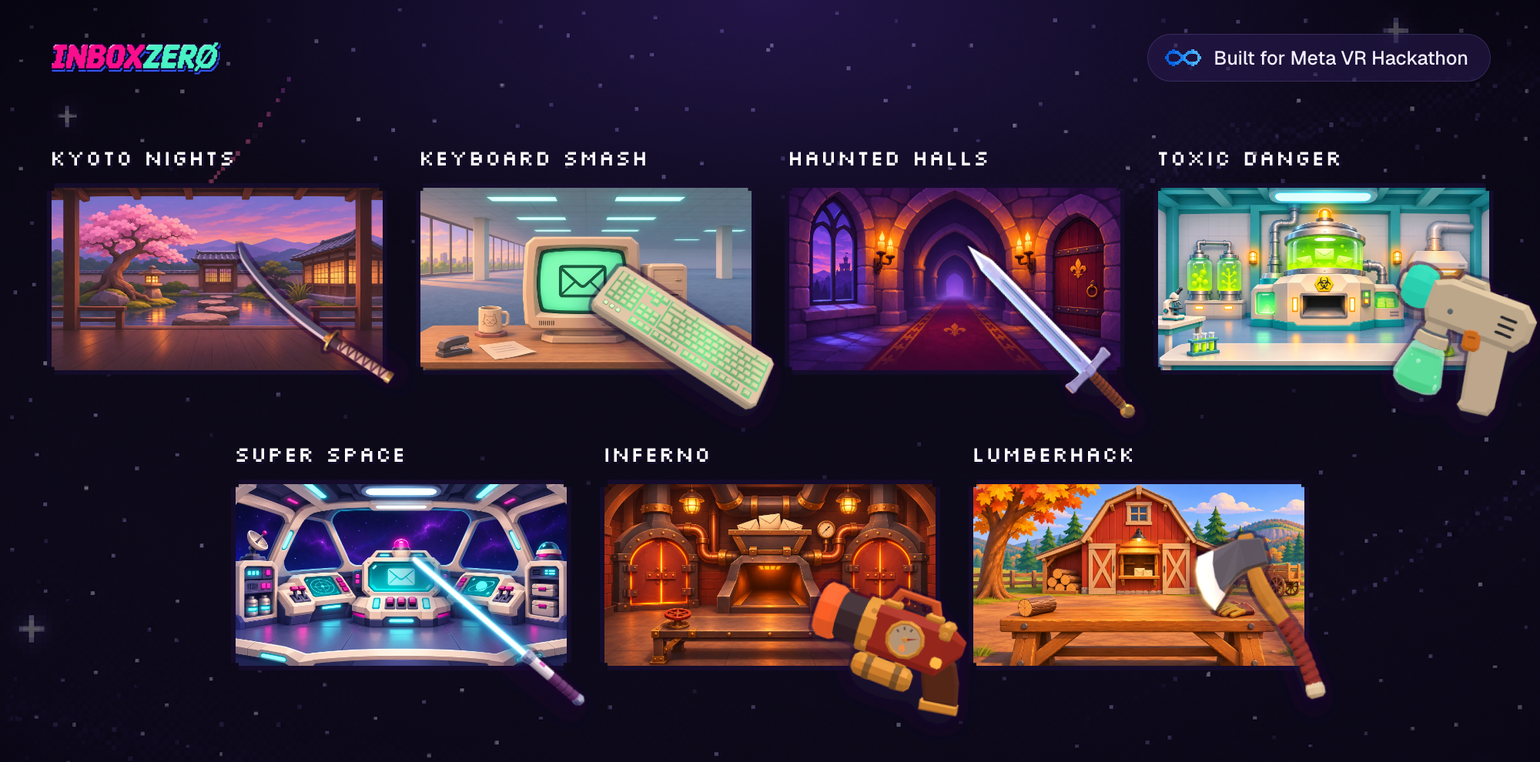
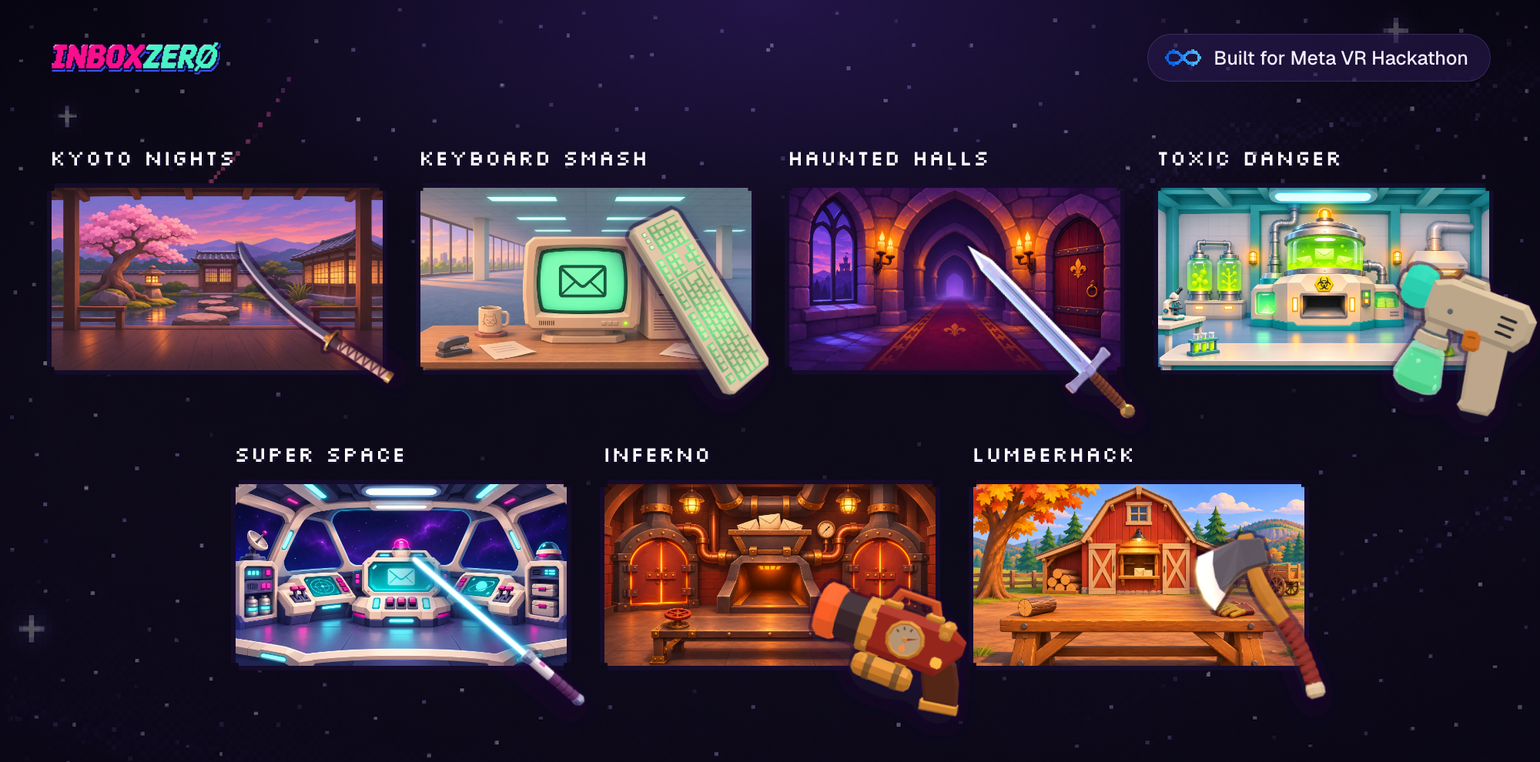
almost done!

Changed region(s): [[0.372, 0.2727, 0.496, 0.5455]]

diff --git a/vr3/app/_site/Win.tsx b/vr3/app/_site/Win.tsx
@@ -1,0 +1,165 @@
+'use client';
+
+import { useEffect, useRef, useState } from 'react';
+import { ANTHEM_LYRICS } from '../../play/src/levels/lyrics';
+
+/**
+ * A level's win, over the footer's painting as its easter egg (FootEgg.tsx; first built in the hero, 2026-11-15: "the nav, hero text, level selector, etc would fade away, the background would
+ * add more particles for that level, and it would play the end song for each level and show the lyrics like it does on the
+ * game, a simple way for people to see / hear that end part"; "build the kyoto first to see if it feels fun"; then
+ * "move this as an easter egg for the footer").
+ *
+ * The song is the game's own (/play/audio/<level>/anthem.m4a) and so are its words and their times (play/src/levels/lyrics.ts).
+ * As in the game's end (play/src/endlyrics.ts): each word comes in as it is sung, in the pixel letters, the line it is on in
+ * the middle. Then, as in the game, it is cut (2026-11-15: "make it center, and not so big text, and maybe try and smash them
+ * with the weapon"): when the next line starts, the level's weapon sweeps through the old one and its two halves fall away;
+ * the last line goes the same way, and the level's logo comes in. Over the painting, the
+ * level's air: more of it than the scenes below, beating with the song (its -pulse.json, as the game's music pulses), and a
+ * puff of it from each word as it lands. It ends by itself a little after the song, or on STOP / Esc.
+ */
+export interface WinAir { colours: string[]; count: number; size: [number, number]; fall: number; drift: number; sway: number }
+/** The levels with a win to show, and their air (Kyoto's petals: play/src/showcase.ts SHOWS.kyoto, more and bigger). */
+export const WINS: Record<string, { lyrics: string; audio: string; air: WinAir }> = {
+  kyoto: { lyrics: 'kyoto', audio: 'kyoto', air: { colours: ['#ffc4d8', '#ff9fc0', '#fff0f5', '#ff8fb8'], count: 150, size: [6, 14], fall: 38, drift: -26, sway: 22 } },
+};
+
+const CUT_LAST = 0.9;        // s after the last word, the weapon cuts the last line
+const LOGO_AFTER = 1.35;     // s after the last word, the logo comes in (a little after the cut)
+const CUTTING = 1.0;         // s a cut line takes to fall away
+/** Kyoto's katana in pixels, its tip to the right: h grip, p its pink wrap, g the guard, b blade, e the edge, s its shade. */
+const KATANA = [
+  '..........gg............................',
+  'hphphphphpggbbbbbbbbbbbbbbbbbbbbbbbbbbb.',
+  'phphphphphggeeeeeeeeeeeeeeeeeeeeeeeeeeee',
+  'hphphphphpggssssssssssssssssssssssssss..',
+  '..........gg............................',
+];
+const INK: Record<string, string> = { h: '#2a1a2e', p: '#ff8fb8', g: '#e0ac48', b: '#dfe6f2', e: '#ffffff', s: '#9aa6bb' };
+function Katana() {
+  return (
+    <svg className="win-katana" viewBox={`0 0 ${KATANA[0].length} ${KATANA.length}`} shapeRendering="crispEdges" aria-hidden>
+      {KATANA.flatMap((row, y) => [...row].map((c, x) => (INK[c] ? <rect key={`${x}-${y}`} x={x} y={y} width={1.02} height={1.02} fill={INK[c]} /> : null)))}
+    </svg>
+  );
+}
+const HOLD = 2.4;            // s the logo stays once the song is over, before the hero comes back
+
+interface Petal { x: number; y: number; s: number; vx: number; vy: number; phase: number; spin: number; colour: string; life: number }
+
+export function Win({ level, onEnd }: { level: string; onEnd(): void }) {
+  const win = WINS[level];
+  const lines = ANTHEM_LYRICS[win.lyrics] ?? [];
+  const lastWord = Math.max(...lines.flat().map(([t]) => t));
+  const canvas = useRef<HTMLCanvasElement>(null);
+  const [t, setT] = useState(-1);
+  const [over, setOver] = useState(false);
+  const clock = useRef({ t: -1, pulse: [] as number[], step: 0.05, words: 0, cuts: 0 });
+
+  // the song, its beat, and the clock everything follows
+  useEffect(() => {
+    const audio = new Audio(`/play/audio/${win.audio}/anthem.m4a`);
+    let frame = 0, ended = 0, gone = false;
+    void fetch(`/play/audio/${win.audio}/anthem-pulse.json`).then(r => (r.ok ? r.json() : null)).then((d: { pulse?: number[]; step?: number } | null) => {
+      if (d?.pulse) { clock.current.pulse = d.pulse; clock.current.step = d.step ?? 0.05; }
+    }).catch(() => undefined);
+    const tick = () => {
+      frame = requestAnimationFrame(tick);
+      clock.current.t = audio.currentTime;
+      setT(audio.currentTime);
+    };
+    audio.addEventListener('ended', () => { setOver(true); ended = window.setTimeout(() => { if (!gone) onEnd(); }, HOLD * 1000); });
+    audio.play().catch(() => { if (!gone) onEnd(); });      // (not when this was taken down first: that pause also fails the play)
+    frame = requestAnimationFrame(tick);
+    const key = (event: KeyboardEvent) => { if (event.key === 'Escape') onEnd(); };
+    addEventListener('keydown', key);
+    return () => { gone = true; cancelAnimationFrame(frame); clearTimeout(ended); audio.pause(); removeEventListener('keydown', key); };
+  }, []);
+
+  // the air: petals drifting down and across, more on the beat, a puff from each word
+  useEffect(() => {
+    const el = canvas.current, g = el?.getContext('2d');
+    if (!el || !g) return;
+    const still = matchMedia('(prefers-reduced-motion: reduce)').matches;
+    const { air } = win;
+    let w = 0, h = 0, frame = 0, last = 0;
+    const petals: Petal[] = [];
+    const make = (x: number, y: number, burst = false): Petal => {
+      const angle = Math.random() * Math.PI * 2, kick = burst ? 60 + Math.random() * 160 : 0;
+      return {
+        x, y, s: air.size[0] + Math.random() * (air.size[1] - air.size[0]),
+        vx: air.drift * (0.6 + Math.random() * 0.8) + Math.cos(angle) * kick, vy: air.fall * (0.6 + Math.random() * 0.8) + Math.sin(angle) * kick,
+        phase: Math.random() * Math.PI * 2, spin: (Math.random() - 0.5) * 3, colour: air.colours[(Math.random() * air.colours.length) | 0], life: burst ? 2.6 : Infinity,
+      };
+    };
+    const size = () => {
+      const box = el.getBoundingClientRect(), ratio = Math.min(devicePixelRatio, 2);
+      w = box.width; h = box.height; el.width = Math.round(w * ratio); el.height = Math.round(h * ratio); g.setTransform(ratio, 0, 0, ratio, 0, 0);
+    };
+    size();
+    for (let i = 0; i < air.count; i++) petals.push(make(Math.random() * w * 1.2, Math.random() * h));
+    const resized = new ResizeObserver(size); resized.observe(el);
+
+    const draw = (now: number) => {
+      frame = requestAnimationFrame(draw);
+      const dt = last ? Math.min(0.05, (now - last) / 1000) : 0; last = now;
+      const c = clock.current, beat = c.pulse.length && c.t >= 0 ? c.pulse[Math.min(c.pulse.length - 1, Math.floor(c.t / c.step))] ?? 0 : 0;
+      // a puff from the middle for each word that has landed since the last frame
+      const landed = lines.flat().filter(([at]) => at <= c.t).length;
+      for (; c.words < landed; c.words++) for (let i = 0; i < 14; i++) petals.push(make(w / 2 + (Math.random() - 0.5) * w * 0.3, h * 0.48 + (Math.random() - 0.5) * 40, true));
+      // and a bigger one along the line, each time the weapon cuts one
+      const cuts = lines.filter((line, i) => i > 0 && line[0][0] <= c.t).length + (c.t >= lastWord + CUT_LAST ? 1 : 0);
+      for (; c.cuts < cuts; c.cuts++) for (let i = 0; i < 40; i++) petals.push(make(w * (0.2 + Math.random() * 0.6), h * 0.5 + (Math.random() - 0.5) * 30, true));
+      g.clearRect(0, 0, w, h);
+      const speed = still ? 0 : 1 + beat * 0.9;
+      for (let i = petals.length - 1; i >= 0; i--) {
+        const p = petals[i];
+        p.phase += dt * 2;
+        p.x += (p.vx + Math.sin(p.phase) * air.sway) * dt * speed;
+        p.y += p.vy * dt * speed;
+        if (p.life !== Infinity) { p.life -= dt; p.vx *= 1 - dt * 1.4; p.vy = p.vy * (1 - dt * 1.4) + air.fall * dt * 1.4; if (p.life <= 0) { petals.splice(i, 1); continue; } }
+        else if (p.y > h + 20 || p.x < -20) { Object.assign(p, make(Math.random() * w * 1.2, -20)); if (Math.random() < 0.5) { p.x = w + 20; p.y = Math.random() * h; } }
+        const fade = p.life === Infinity ? 1 : Math.min(1, p.life / 0.8);
+        const s = p.s * (1 + beat * 0.35), flip = Math.abs(Math.cos(p.phase * 0.7 + p.spin));      // (a petal turning over: narrower, then wide)
+        g.globalAlpha = (0.55 + beat * 0.45) * fade;
+        g.fillStyle = p.colour;
+        g.fillRect(Math.round(p.x), Math.round(p.y), Math.max(2, Math.round(s * (0.35 + 0.65 * flip))), Math.round(s * 0.62));
+      }
+      g.globalAlpha = 1;
+    };
+    frame = requestAnimationFrame(draw);
+    return () => { cancelAnimationFrame(frame); resized.disconnect(); };
+  }, []);
+
+  // the words: the line being sung, in the middle; the line before it being cut, while it falls; then the logo
+  const starts = lines.map(line => line[0][0]);
+  const now = starts.reduce((found, at, i) => (at <= t ? i : found), -1);
+  const cutLast = t >= lastWord + CUT_LAST;
+  const cut = cutLast ? (t - lastWord - CUT_LAST < CUTTING ? lines.length - 1 : -1)
+    : now > 0 && t - starts[now] < CUTTING ? now - 1 : -1;
+  const words = now >= 0 && !cutLast ? lines[now].filter(([at]) => at <= t) : [];
+  const showLogo = over || t > lastWord + LOGO_AFTER;
+  const said = (i: number) => lines[i].map(([, word]) => word).join(' ');
+
+  return (
+    <div className="win" style={{ '--accent': win.air.colours[1] } as React.CSSProperties}>
+      <canvas ref={canvas} className="win-air" aria-hidden />
+      <div className="win-words" aria-live="polite">
+        {words.length > 0 && (
+          <p key={now} className="win-line now">
+            {words.map(([, word], k) => <span key={k} className={k === words.length - 1 ? 'fresh' : undefined}>{word}</span>)}
+          </p>
+        )}
+        {cut >= 0 && (
+          <div key={`cut-${cut}`} className="win-cut" aria-hidden>
+            <p className="win-line half top">{said(cut)}</p>
+            <p className="win-line half bottom">{said(cut)}</p>
+            <span className="win-slash" />
+            <Katana />
+          </div>
+        )}
+        {showLogo && <img className="win-logo" src={`/play/logos/${level}.webp`} alt={`${level} cleared`} />}
+      </div>
+      <button type="button" className="pix small win-stop" onClick={onEnd}>STOP</button>
+    </div>
+  );
+}

diff --git a/vr3/app/globals.css b/vr3/app/globals.css
@@ -101,6 +101,44 @@ h1 em{display:inline-block;font-style:normal;color:var(--accent);animation:swap 
 .dot.on{background:var(--mint);box-shadow:0 0 0 3px #4ff3c833,0 0 10px var(--mint)}
 
 /* the level picker: a small painting per level, the picked one lit in its colour with a bar that fills until the next */
+/* ───────── the footer's easter egg, Kyoto's win (FootEgg.tsx, Win.tsx): the footer's words and the nav step aside,
+   the painting pushes in, and the song's words, the katana and the petals take the footer ───────── */
+.nav,.foot-hero{transition:opacity .6s ease}
+body.winning .nav,.foot.winning .foot-hero{opacity:0;pointer-events:none}
+.foot-bg{transition:scale 8s ease-out}
+.foot.winning .foot-bg{scale:1.08}
+.foot-egg{all:unset;cursor:pointer;display:block;transition:transform .2s steps(2),filter .2s}
+.foot-egg:hover{transform:translateY(-2px) rotate(-2deg);filter:drop-shadow(0 0 10px #ff8fb8aa)}
+.foot-egg:focus-visible{outline:2px solid var(--mint);outline-offset:6px}
+.win{position:absolute;inset:0;z-index:3;display:grid;place-items:center;pointer-events:none;animation:win-in .8s ease both;
+  background:radial-gradient(70% 60% at 50% 48%,#0b091259,#0b0912a6)}
+@keyframes win-in{from{opacity:0}}
+.win-air{position:absolute;inset:0;width:100%;height:100%}
+.win-words{position:relative;display:grid;place-items:center;width:min(1000px,92%);text-align:center}
+.win-words>*{grid-area:1/1}
+.win-line{margin:0;font:700 clamp(20px,3.4vw,40px)/1.15 var(--pixel);text-transform:uppercase;color:#fff;
+  text-shadow:0 4px 0 #0b0912,0 0 24px color-mix(in srgb,var(--accent) 70%,transparent)}
+.win-line span{display:inline-block;margin:0 .22em}
+.win-line.now span.fresh{color:var(--accent);animation:word-pop .38s cubic-bezier(.2,1.8,.4,1) both}
+@keyframes word-pop{from{opacity:0;transform:translateY(14px) scale(.5)}}
+.win-line.now{animation:line-in .2s .18s ease both}      /* (waits for the cut before it to clear) */
+@keyframes line-in{from{opacity:0}}
+/* the cut: the weapon sweeps through, a white slash stays a moment, the line's two halves fall away */
+.win-cut{position:relative;width:100%;display:grid;place-items:center}
+.win-cut>*{grid-area:1/1}
+.win-line.half{word-spacing:.44em}
+.win-line.half.top{clip-path:inset(0 0 52% 0);animation:cut-top .95s .1s cubic-bezier(.4,0,.8,.4) both}
+.win-line.half.bottom{clip-path:inset(48% 0 0 0);animation:cut-bottom .95s .1s cubic-bezier(.4,0,.8,.4) both}
+@keyframes cut-top{12%{transform:translate(-14px,-12px) rotate(-3deg)}100%{transform:translate(-80px,170px) rotate(-16deg);opacity:0}}
+@keyframes cut-bottom{12%{transform:translate(12px,8px) rotate(2deg)}100%{transform:translate(70px,230px) rotate(12deg);opacity:0}}
+.win-slash{justify-self:stretch;height:4px;background:#fff;box-shadow:0 0 12px #fff,0 0 30px var(--accent);rotate:-4deg;transform-origin:0 50%;animation:slash .5s ease-out both}
+@keyframes slash{0%{transform:scaleX(0);opacity:1}35%{transform:scaleX(1);opacity:1}100%{transform:scaleX(1);opacity:0}}
+.win-katana{justify-self:start;width:clamp(210px,28vw,340px);height:auto;filter:drop-shadow(0 4px 0 #0b0912) drop-shadow(0 0 14px #fff8);animation:katana-sweep .42s cubic-bezier(.3,0,.2,1) both}
+@keyframes katana-sweep{0%{transform:translate(-60%,-40px) rotate(-24deg);opacity:0}15%{opacity:1}80%{opacity:1}100%{transform:translate(calc(min(1000px,92vw) - 40%),30px) rotate(14deg);opacity:0}}
+.win-logo{width:min(620px,74%);height:auto;filter:drop-shadow(0 10px 30px #000000b3);animation:logo-smash .7s cubic-bezier(.2,1.5,.35,1) both}
+@keyframes logo-smash{0%{opacity:0;transform:scale(2.4) rotate(-6deg)}60%{opacity:1}100%{transform:none}}
+.win-stop{position:absolute;bottom:clamp(28px,5vh,56px);left:50%;translate:-50% 0;pointer-events:auto;--c:var(--accent)}
+@media (prefers-reduced-motion:reduce){.win-line.now span.fresh,.win-line.now,.win-logo,.win,.win-katana,.win-slash{animation:none}.win-katana,.win-slash{display:none}.foot.winning .foot-bg{scale:1}}
 .hero-pick{justify-self:center;display:flex;flex-direction:column;align-items:center;gap:12px;margin-top:18px;width:100%}
 .hero-levels{display:grid;grid-template-columns:repeat(7,84px);gap:10px}
 .hero-levels button{all:unset;position:relative;cursor:pointer;display:block;aspect-ratio:84/52;padding:3px;background:#ffffff2e;box-shadow:0 6px 0 #0b091299;transition:transform .18s steps(3),background .2s,box-shadow .2s}

diff --git a/vr3/play/index.html b/vr3/play/index.html
@@ -24,7 +24,7 @@ html,body{margin:0;background:#06050a}
 <div id="scene" aria-label="The level. Drag or use arrow keys to look around." tabindex="0"></div>
 <div id="loading" role="status" aria-label="Loading"><div class="load-inner"><img class="load-logo" src="logos/site.webp" alt="Inbox Zero"><div class="load-bar" aria-hidden="true"><span></span></div><p class="load-text">LOADING</p></div></div>
 <section id="home" aria-label="Inbox Zero">
- <div class="home-top"><div class="home-corner left"><span class="mic-wrap"><button id="connect-mic" class="pix icon" aria-label="Connect mic"><canvas class="mic" aria-hidden="true"></canvas></button><span class="mic-meter" aria-hidden="true"><span></span></span></span><button id="open-video" class="pix icon video-btn" aria-label="Watch the video" title="Watch the video"><canvas class="play" aria-hidden="true"></canvas><span class="video-word" aria-hidden="true">Video</span></button><button id="debug-mic" class="pix" hidden title="Test the mic and its words here, without playing">Debug Mic</button><span id="mic-note" class="mic-note" role="status"></span><button id="mock-results" class="pix" hidden title="Dev: show the results screen with mock data">Mock</button></div><div class="home-corner right"><button id="code-badge" class="pix code-badge" hidden title="The game code from your AI agent: this is your inbox">Code</button><button id="open-mcp" class="pix mcp-btn" title="Play your own email: the MCP URL for your AI agent">MCP</button><a id="hackathon" class="pix icon hack-link" target="_blank" rel="noopener" aria-label="The Meta VR Hackathon" title="The Meta VR Hackathon"><canvas class="loop" aria-hidden="true"></canvas></a></div></div>
+ <div class="home-top"><div class="home-corner left"><span class="mic-wrap"><button id="connect-mic" class="pix icon" aria-label="Connect mic"><canvas class="mic" aria-hidden="true"></canvas></button><span class="mic-meter" aria-hidden="true"><span></span></span></span><button id="open-video" class="pix icon video-btn" aria-label="Watch the video" title="Watch the video"><canvas class="play" aria-hidden="true"></canvas><span class="video-word" aria-hidden="true">Video</span></button><button id="debug-mic" class="pix" hidden title="Test the mic and its words here, without playing">Debug Mic</button><button id="mock-results" class="pix" hidden title="Dev: show the results screen with mock data">Mock</button></div><div class="home-corner right"><button id="code-badge" class="pix code-badge" hidden title="The game code from your AI agent: this is your inbox">Code</button><button id="open-mcp" class="pix mcp-btn" title="Play your own email: the MCP URL for your AI agent">MCP</button><a id="hackathon" class="pix icon hack-link" target="_blank" rel="noopener" aria-label="The Meta VR Hackathon" title="The Meta VR Hackathon"><canvas class="loop" aria-hidden="true"></canvas></a></div></div>
  <div class="home-head"><canvas id="credit" class="credit" width="1100" height="40" role="img" aria-label="Built By Dylan Jones for Meta VR Hackathon"></canvas><h1 id="logo-stage" aria-label="Inbox Zero"><canvas class="logo-air" aria-hidden="true"></canvas><span class="logo-float"><span class="logo-shine" aria-hidden="true"></span></span></h1><canvas id="tagline" class="tagline" width="1100" height="56" role="img" aria-label="Slash the spam · save what matters"></canvas></div>
  <div id="levels" role="radiogroup" aria-label="Choose a level"></div>
  <div class="home-actions">

diff --git a/vr3/play/src/style.css b/vr3/play/src/style.css
@@ -206,7 +206,7 @@ button.link:hover{background:none;opacity:1}
 .dialog-actions{display:flex;justify-content:flex-end;gap:10px;margin-top:20px;flex-wrap:wrap}
 /* Connect mic on the home page (src/dictate.ts): its edge says the mic's state, a meter under it while it listens */
 .mic-wrap{position:relative;display:inline-grid}
-.mic-wrap[hidden],#home #debug-mic.pix[hidden],.mic-note[hidden]{display:none}
+.mic-wrap[hidden],#home #debug-mic.pix[hidden]{display:none}
 .mic-meter{position:absolute;left:8px;right:8px;bottom:-10px;height:4px;background:#ffffff26;opacity:0;transition:opacity .2s;pointer-events:none}
 .mic-wrap.testing .mic-meter{opacity:1}
 .mic-meter span{display:block;height:100%;width:0;background:#7dffc9;transition:width 60ms linear}
@@ -215,12 +215,8 @@ button.link:hover{background:none;opacity:1}
 #home .pix.mic-off:disabled{cursor:default;opacity:.7}
 #home .pix.mic-ask{animation:mic-ask 1.6s ease-in-out infinite}
 @keyframes mic-ask{50%{filter:brightness(1.4)}}
-/* beside the mic icon (2026-11-15): Debug Mic, and in words whether the mic is connected */
+/* beside the mic icon (2026-11-15): Debug Mic (with ?debug=1) */
 #home #debug-mic.pix{padding:9px 12px 11px;font-size:11px;letter-spacing:.08em;text-transform:uppercase}
-.mic-note{font:12px/1.2 'Helvetica Neue',Arial,sans-serif;letter-spacing:.04em;text-shadow:0 1px 6px #000;white-space:nowrap}
-.mic-note.on{color:#7dffc9}
-.mic-note.off{color:#ff8fa3}
-@media(max-width:600px){.mic-note{display:none}}
 /* the mic test card (src/micdebug.ts) */
 .mic-debug h2{margin:0 0 12px;font-size:18px;letter-spacing:.04em}
 .mic-checks{display:grid;grid-template-columns:auto 1fr;gap:6px 14px;margin:0 0 14px;font-size:13px}
@@ -241,7 +237,7 @@ button.link:hover{background:none;opacity:1}
 .mic-details{margin-top:10px;font-size:12px;opacity:.75}
 .mic-details pre{margin:6px 0 0;max-height:180px;overflow:auto;white-space:pre-wrap;word-break:break-all;font-size:11px}
 /* Video, top left, and its card (src/videocard.ts, 2026-11-15) */
-#home .pix.video-btn{grid-auto-flow:column;gap:8px;padding:9px 13px 11px 11px}
+#home .pix.video-btn{grid-auto-flow:column;gap:8px;padding:9px 14px 11px 16px}      /* (more room left of the play triangle: its flat side sits hard against the edge) */
 #home .pix.video-btn .video-word{position:relative;display:block;line-height:0}
 .video-card{width:min(94vw,1000px);max-width:none;padding:14px 14px 16px;overflow:hidden}
 .video-frame{position:relative;width:100%;aspect-ratio:16/9;background:#000;border-radius:8px;overflow:hidden}
@@ -249,6 +245,8 @@ button.link:hover{background:none;opacity:1}
 .video-card .dialog-actions{justify-content:center;margin-top:14px}
 /* MCP, top right, and its card (src/mcpcard.ts, 2026-11-15) */
 #home .pix.mcp-btn{padding:9px 12px 11px}
+/* every button along the top the mic's height (2026-11-15: "make the video button same height as mic icon, and make mcp and meta also same height") */
+#home .home-top .pix{box-sizing:border-box;height:40px;padding-top:0;padding-bottom:2px}
 /* (2026-11-15: "make the typography better on this, better spacing / games and drop the periods": all in the pixel letters) */
 .mcp-card{width:min(92vw,480px);padding:34px 30px 28px;text-align:center}
 .mcp-card[open]{display:grid;justify-items:center}

diff --git a/vr3/play/src/dictate.ts b/vr3/play/src/dictate.ts
@@ -443,15 +443,15 @@ export const dictate = createDictate();
  */
 export function bindHomeMic() {
   const button = document.getElementById('connect-mic') as HTMLButtonElement | null, wrap = button?.parentElement, bar = wrap?.querySelector<HTMLElement>('.mic-meter span');
-  // (2026-11-15: "add a message if mic is connected or not": said in words beside the icon, not only its edge)
+  // (the words beside the icon, "Mic connected", went 2026-11-15: "remove mic connected lavel"; its edge still says it)
   // (Debug Mic only with ?debug=1 in the address, 2026-11-15: "hide the debug button from root"; it stays hidden otherwise)
-  const note = document.getElementById('mic-note'), debug = new URLSearchParams(location.search).has('debug') ? document.getElementById('debug-mic') : null;
+  const debug = new URLSearchParams(location.search).has('debug') ? document.getElementById('debug-mic') : null;
   if (!button || !wrap) return;
   let shown = '';
   function show() {
     // (no mic for this browser, or not known yet: none of it shows, and round two is the demo recording)
     const hide = dictate.micOff || dictate.scribe === null;
-    wrap!.hidden = hide; if (note) note.hidden = hide; if (debug) debug.hidden = hide;
+    wrap!.hidden = hide; if (debug) debug.hidden = hide;
     const p = dictate.permission, words = dictate.scribe ? 'ElevenLabs Scribe writes down what you say.' : dictate.hasBrowserSpeech ? 'This browser writes down what you say.' : 'Round two hears you; nothing here writes the words down yet.';
     const [label, tone, title] = p === 'unavailable' ? ['Mic needs https', 'off', 'The mic only works on a secure page (https).']
       : !dictate.hasDevice ? ['No mic found', 'off', 'No microphone is connected.']
@@ -463,14 +463,6 @@ export function bindHomeMic() {
     wrap!.classList.toggle('testing', dictate.testing);
     if (label !== shown) { shown = label; button!.setAttribute('aria-label', label); }
     button!.title = `${label}. ${title}`;
-    if (note) {
-      const on = p === 'granted' && dictate.hasDevice;
-      // (only when it is on: "remove the mic warning ... the browser already asks, dont need to show it here", 2026-11-15)
-      note.textContent = on ? (dictate.testing ? 'Mic listening…' : 'Mic connected') : '';
-      note.className = 'mic-note on';
-      if (!on) note.hidden = true;
-      note.title = title;
-    }
   }
   drawMic(button.querySelector<HTMLCanvasElement>('canvas.mic'));
   // the meter under the button while it listens

diff --git a/devpost-images/levels.html b/devpost-images/levels.html
@@ -28,7 +28,7 @@
   <div class="built"><img src="assets/meta-mark.svg">Built for Meta VR Hackathon</div>
   <div class="grid">
     <div class="slot"><b>Kyoto Nights</b><div class="wrap"><div class="frame"><div class="paint" style="background-image:url(assets/select-kyoto.webp)"></div></div><img class="weapon" src="assets/weapon-kyoto.png" style="height:290px; right:-30px; bottom:-60px; transform: rotate(-92deg)"></div></div>
-    <div class="slot"><b>Keyboard Smash</b><div class="wrap"><div class="frame"><div class="paint" style="background-image:url(assets/select-office.webp)"></div></div><img class="weapon" src="assets/weapon-office.png" style="height:165px; right:-28px; bottom:-34px; transform: rotate(8deg)"></div></div>
+    <div class="slot"><b>Keyboard Smash</b><div class="wrap"><div class="frame"><div class="paint" style="background-image:url(assets/select-office.webp)"></div></div><img class="weapon" src="assets/weapon-office.png" style="height:165px; right:-48px; bottom:14px; transform: rotate(34deg)"></div></div>
     <div class="slot"><b>Haunted Halls</b><div class="wrap"><div class="frame"><div class="paint" style="background-image:url(assets/select-castle.webp)"></div></div><img class="weapon" src="assets/weapon-castle.png" style="height:300px; right:40px; bottom:-90px; transform: rotate(-28deg)"></div></div>
     <div class="slot"><b>Toxic Danger</b><div class="wrap"><div class="frame"><div class="paint" style="background-image:url(assets/select-lab.webp)"></div></div><img class="weapon" src="assets/weapon-lab.png" style="height:175px; right:-46px; bottom:-42px; transform: rotate(18deg)"></div></div>
     <div class="slot"><b>Super Space</b><div class="wrap"><div class="frame"><div class="paint" style="background-image:url(assets/select-space.webp)"></div></div><img class="weapon" src="assets/weapon-space.png" style="height:140px; right:-40px; bottom:-14px; transform: rotate(16deg)"></div></div>

diff --git a/vr3/app/_site/FootEgg.tsx b/vr3/app/_site/FootEgg.tsx
@@ -1,0 +1,32 @@
+'use client';
+
+import { useEffect, useRef, useState } from 'react';
+import { createPortal } from 'react-dom';
+import { Win } from './Win';
+
+/**
+ * The footer's easter egg (2026-11-15: "move this as an easter egg for the footer"): the Inbox Zero logo under the buttons is
+ * also a button. Pressed, the footer's words step aside, the page scrolls to show all of the footer, and Kyoto's win plays
+ * over its painting (Win.tsx: the end song, its words cut by the katana, the petals). The nav steps aside too.
+ */
+export function FootEgg() {
+  const button = useRef<HTMLButtonElement>(null);
+  const [foot, setFoot] = useState<HTMLElement | null>(null);
+  const [on, setOn] = useState(false);
+
+  useEffect(() => { setFoot(button.current?.closest('footer') ?? null); }, []);
+  useEffect(() => {
+    document.body.classList.toggle('winning', on);
+    foot?.classList.toggle('winning', on);
+    if (on) foot?.scrollIntoView({ block: 'end', behavior: 'smooth' });
+  }, [on, foot]);
+
+  return (
+    <>
+      <button ref={button} type="button" className="foot-egg" onClick={() => setOn(true)} aria-label="Inbox Zero (play the Kyoto win)">
+        <img className="foot-logo" src="/play/logos/site.webp" alt="" width={126} height={26} loading="lazy" />
+      </button>
+      {on && foot && createPortal(<Win level="kyoto" onEnd={() => setOn(false)} />, foot)}
+    </>
+  );
+}

diff --git a/vr3/app/page.tsx b/vr3/app/page.tsx
@@ -225,6 +225,7 @@ export default async function Home({ searchParams }: { searchParams: Promise<Par
             <a className="pix" href={playHref}>PLAY DEMO</a>
           </div>
           <div className="foot-bar">
+            {/* (the logo also played Kyoto's win, an easter egg: <FootEgg /> from ./_site/FootEgg. Hidden for now, 2026-11-15) */}
             <img className="foot-logo" src="/play/logos/site.webp" alt="Inbox Zero" width={126} height={26} loading="lazy" />
             <div className="foot-by">
               <p className="byline">

diff --git a/vr3/play/src/videocard.ts b/vr3/play/src/videocard.ts
@@ -6,7 +6,7 @@ import { uiSound } from './uisound';
  * the video embed to play / so it can be watched on quest"). The demo video (the site's `demoVideo`, app/_site/content.ts) from
  * YouTube's no-cookie player, made on open and removed on close, so it stops; the game's music is silent while it is open.
  */
-const VIDEO = '1M4B0hSwFXw';
+const VIDEO = '7igom3vHeBk';
 
 let open = false;
 /** The video card is open (main.ts: the music steps out). */

diff --git a/vr3/app/_site/content.ts b/vr3/app/_site/content.ts
@@ -6,7 +6,7 @@
  */
 export const SITE = {
   /** The demo video's YouTube id (the part after v=). */
-  demoVideo: '1M4B0hSwFXw',
+  demoVideo: '7igom3vHeBk',
   /** The MCP server an agent is given (app/mcp/route.ts). */
   mcp: 'https://www.inboxzerovr.com/mcp',
   competition: { name: 'Meta VR Start Developer Competition 2026', url: 'https://start-developer-competition-26.devpost.com/' },
